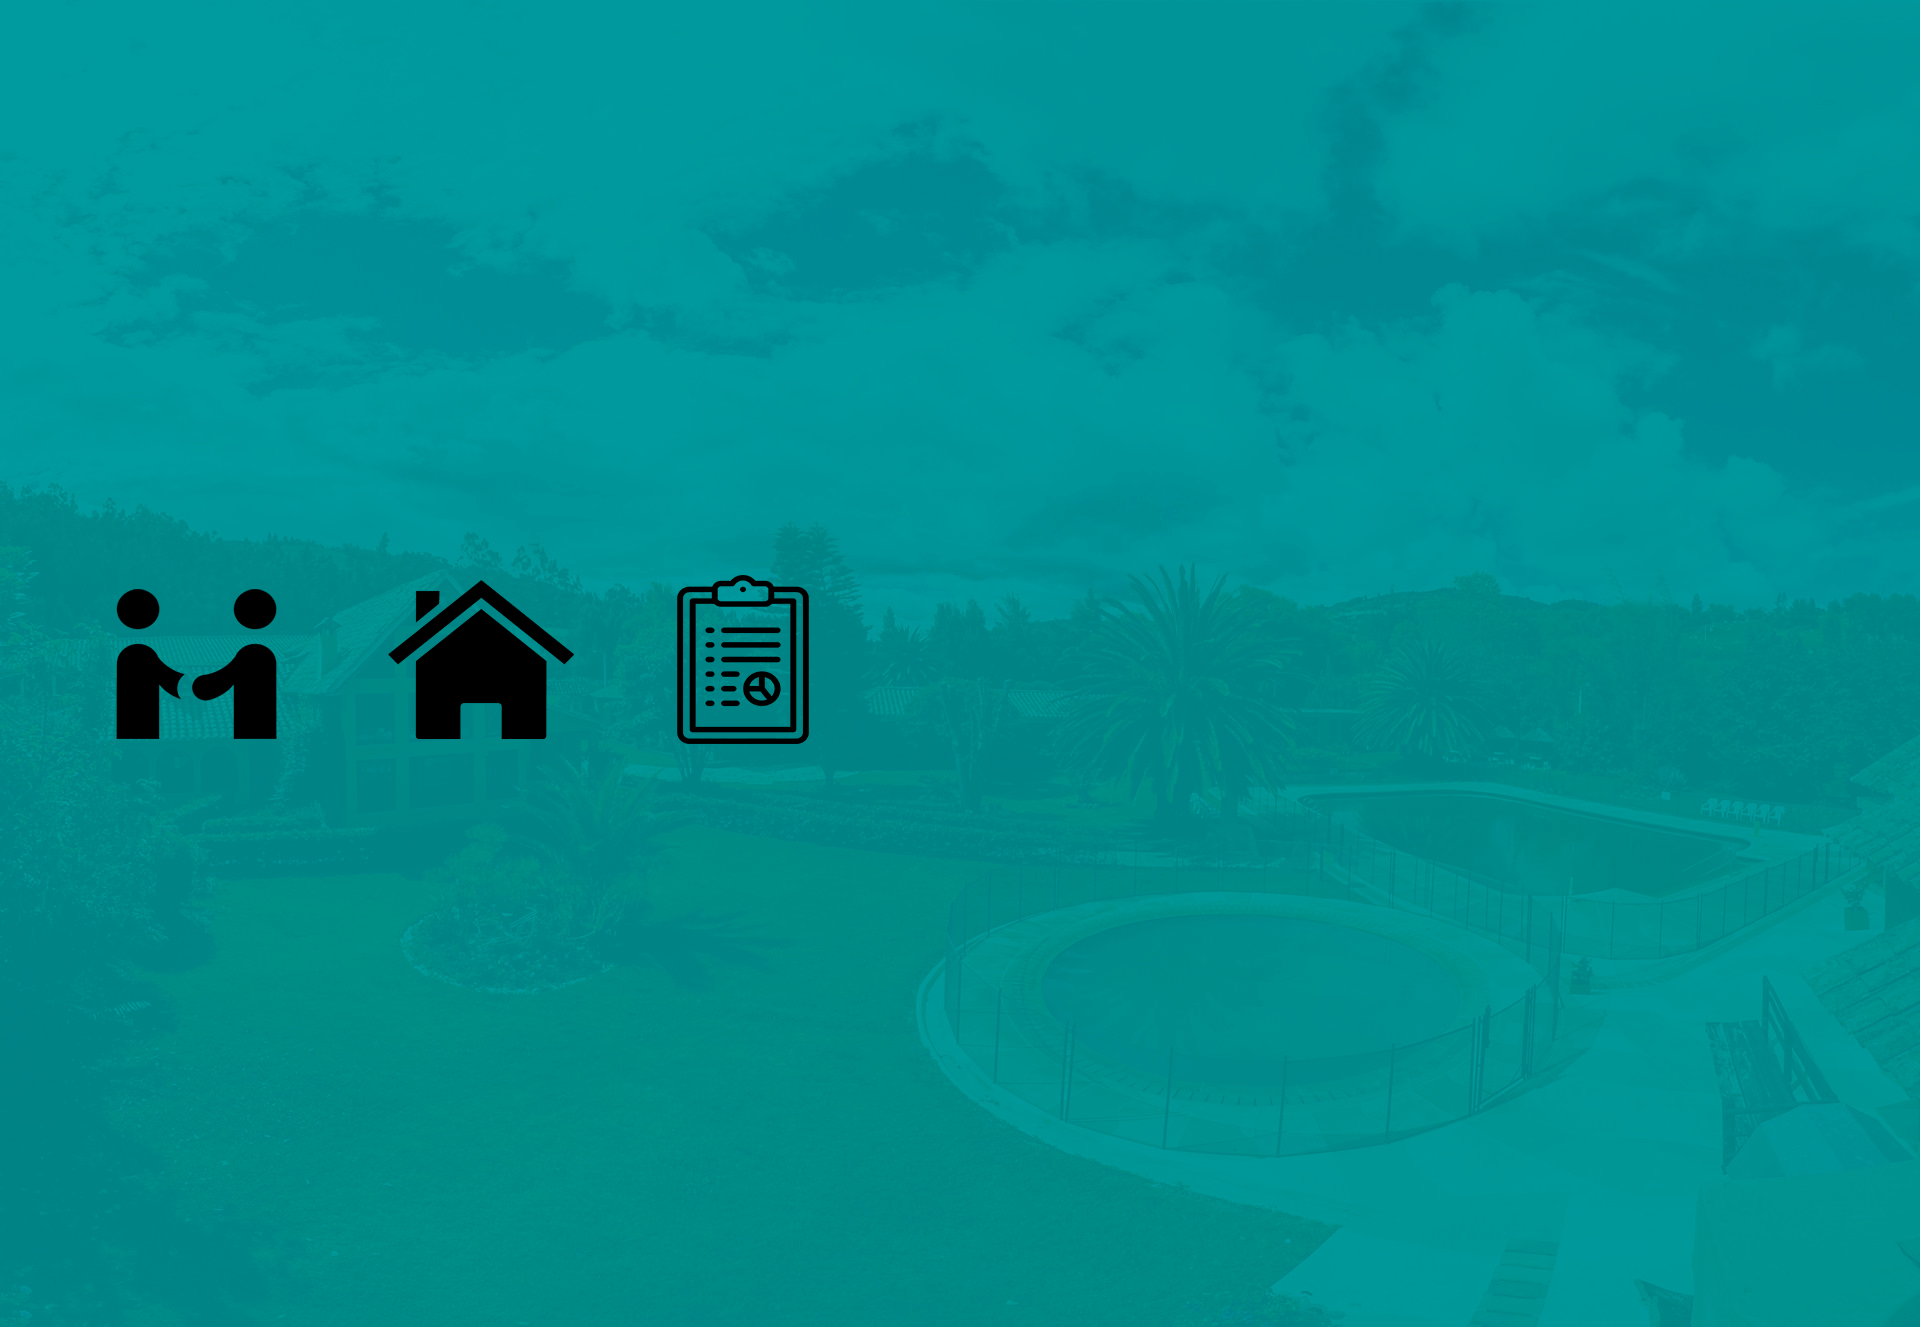
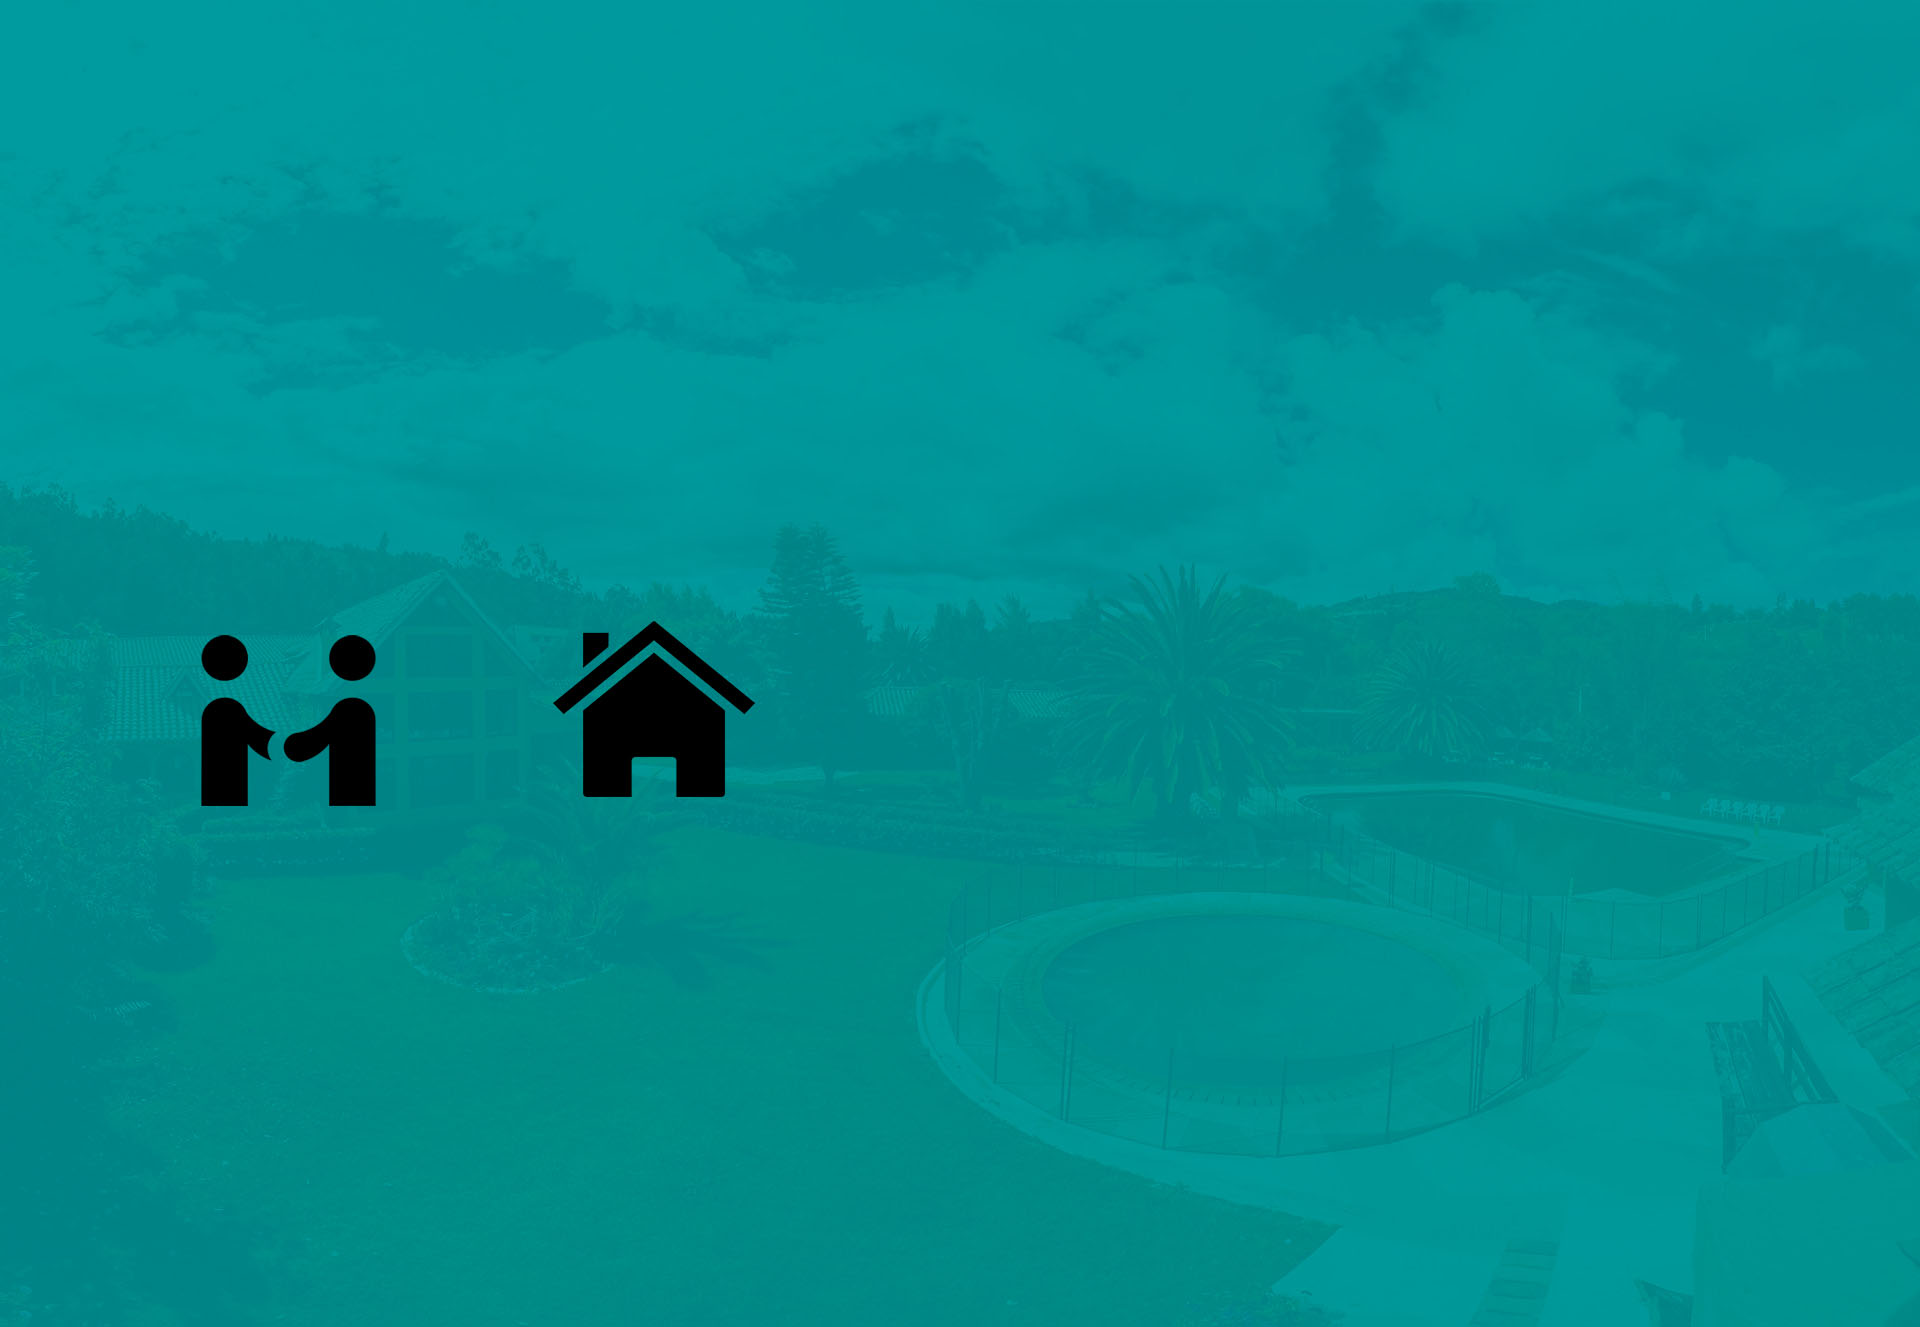
vista vendedor editada

Changed region(s): [[0.0625, 0.4326, 0.4375, 0.6179]]

diff --git a/src/View/vista_vendedor.java b/src/View/vista_vendedor.java
@@ -30,7 +30,6 @@ public class vista_vendedor extends javax.swing.JFrame {
         cerrar = new javax.swing.JButton();
         btnCliente = new javax.swing.JButton();
         btnDisenar = new javax.swing.JButton();
-        btnReporte = new javax.swing.JButton();
         fondo = new javax.swing.JLabel();
 
         setDefaultCloseOperation(javax.swing.WindowConstants.EXIT_ON_CLOSE);
@@ -57,7 +56,7 @@ public class vista_vendedor extends javax.swing.JFrame {
             }
         });
         getContentPane().add(btnCliente);
-        btnCliente.setBounds(130, 380, 100, 40);
+        btnCliente.setBounds(210, 380, 100, 40);
 
         btnDisenar.setText("Diseñar");
         btnDisenar.addActionListener(new java.awt.event.ActionListener() {
@@ -66,21 +65,12 @@ public class vista_vendedor extends javax.swing.JFrame {
             }
         });
         getContentPane().add(btnDisenar);
-        btnDisenar.setBounds(420, 380, 100, 40);
-
-        btnReporte.setText("Reporte");
-        btnReporte.addActionListener(new java.awt.event.ActionListener() {
-            public void actionPerformed(java.awt.event.ActionEvent evt) {
-                btnReporteActionPerformed(evt);
-            }
-        });
-        getContentPane().add(btnReporte);
-        btnReporte.setBounds(690, 380, 100, 40);
+        btnDisenar.setBounds(590, 380, 100, 40);
 
         fondo.setFont(new java.awt.Font("Tw Cen MT", 0, 14)); // NOI18N
         fondo.setIcon(new javax.swing.ImageIcon(getClass().getResource("/imagenes/Fondovendedor.png"))); // NOI18N
         getContentPane().add(fondo);
-        fondo.setBounds(-10, -110, 980, 720);
+        fondo.setBounds(-20, -150, 980, 740);
 
         pack();
     }// </editor-fold>//GEN-END:initComponents
@@ -96,10 +86,6 @@ public class vista_vendedor extends javax.swing.JFrame {
         vd.setVisible(true);
         dispose();
     }//GEN-LAST:event_btnDisenarActionPerformed
-
-    private void btnReporteActionPerformed(java.awt.event.ActionEvent evt) {//GEN-FIRST:event_btnReporteActionPerformed
-        // TODO add your handling code here:
-    }//GEN-LAST:event_btnReporteActionPerformed
 
     private void btnClienteActionPerformed(java.awt.event.ActionEvent evt) {//GEN-FIRST:event_btnClienteActionPerformed
         vista_ver_cliente vc= new vista_ver_cliente();
@@ -145,7 +131,6 @@ public class vista_vendedor extends javax.swing.JFrame {
     // Variables declaration - do not modify//GEN-BEGIN:variables
     private javax.swing.JButton btnCliente;
     private javax.swing.JButton btnDisenar;
-    private javax.swing.JButton btnReporte;
     private javax.swing.JButton cerrar;
     private javax.swing.JLabel fondo;
     // End of variables declaration//GEN-END:variables

diff --git a/src/View/vista_ver_cliente.java b/src/View/vista_ver_cliente.java
@@ -36,6 +36,7 @@ public class vista_ver_cliente extends javax.swing.JFrame {
         lbClientes = new javax.swing.JLabel();
         jLabel2 = new javax.swing.JLabel();
         txtNombre = new javax.swing.JTextField();
+        jButton2 = new javax.swing.JButton();
         fondo = new javax.swing.JLabel();
 
         setDefaultCloseOperation(javax.swing.WindowConstants.EXIT_ON_CLOSE);
@@ -75,7 +76,7 @@ public class vista_ver_cliente extends javax.swing.JFrame {
 
         jButton1.setText("Ver Casas Prediseñadas");
         getContentPane().add(jButton1);
-        jButton1.setBounds(350, 510, 150, 40);
+        jButton1.setBounds(120, 510, 150, 40);
 
         lbClientes.setFont(new java.awt.Font("Tahoma", 1, 45)); // NOI18N
         lbClientes.setForeground(new java.awt.Color(204, 255, 255));
@@ -95,6 +96,10 @@ public class vista_ver_cliente extends javax.swing.JFrame {
         });
         getContentPane().add(txtNombre);
         txtNombre.setBounds(190, 60, 350, 30);
+
+        jButton2.setText("Generar Reporte");
+        getContentPane().add(jButton2);
+        jButton2.setBounds(590, 510, 150, 40);
 
         fondo.setIcon(new javax.swing.ImageIcon(getClass().getResource("/imagenes/Fondo2.jpg"))); // NOI18N
         getContentPane().add(fondo);
@@ -151,6 +156,7 @@ public class vista_ver_cliente extends javax.swing.JFrame {
     private javax.swing.JButton btnBuscar;
     private javax.swing.JLabel fondo;
     private javax.swing.JButton jButton1;
+    private javax.swing.JButton jButton2;
     private javax.swing.JLabel jLabel1;
     private javax.swing.JLabel jLabel2;
     private javax.swing.JScrollPane jScrollPane1;
